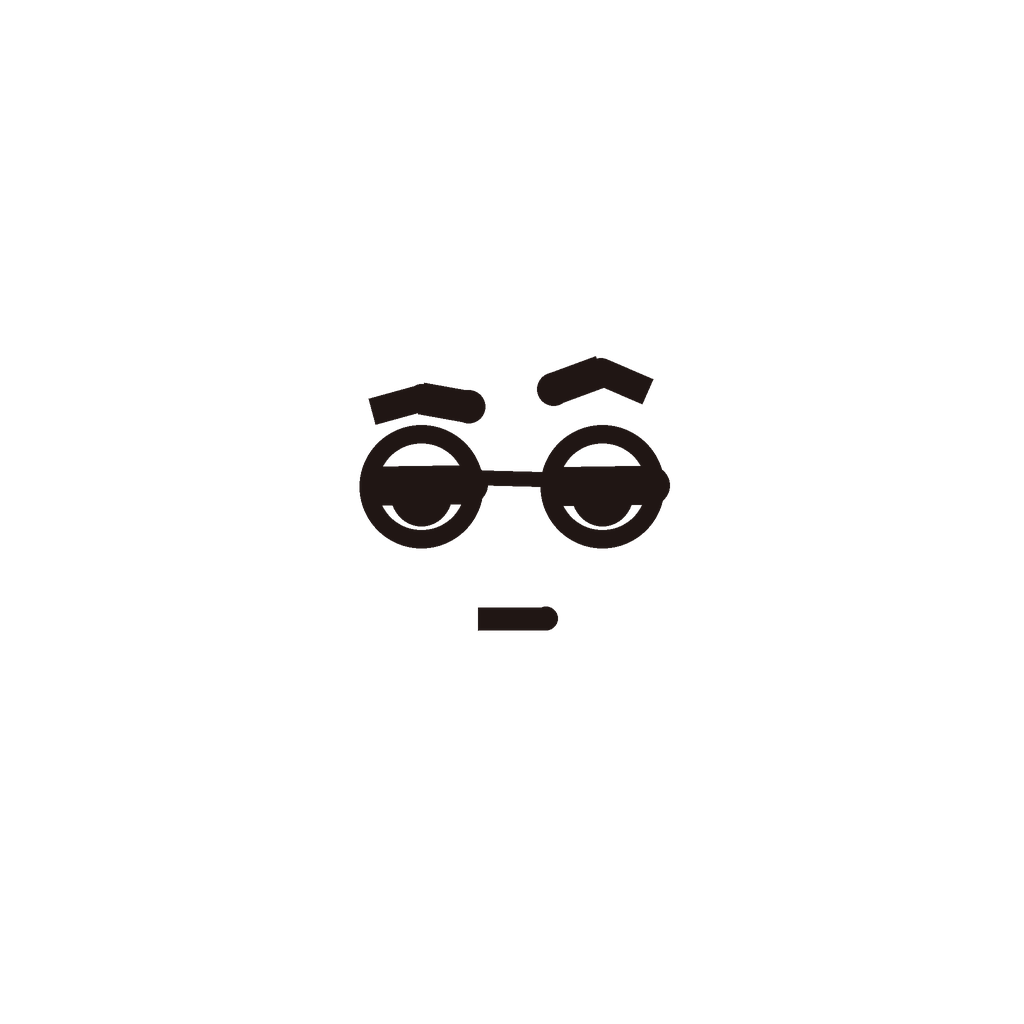
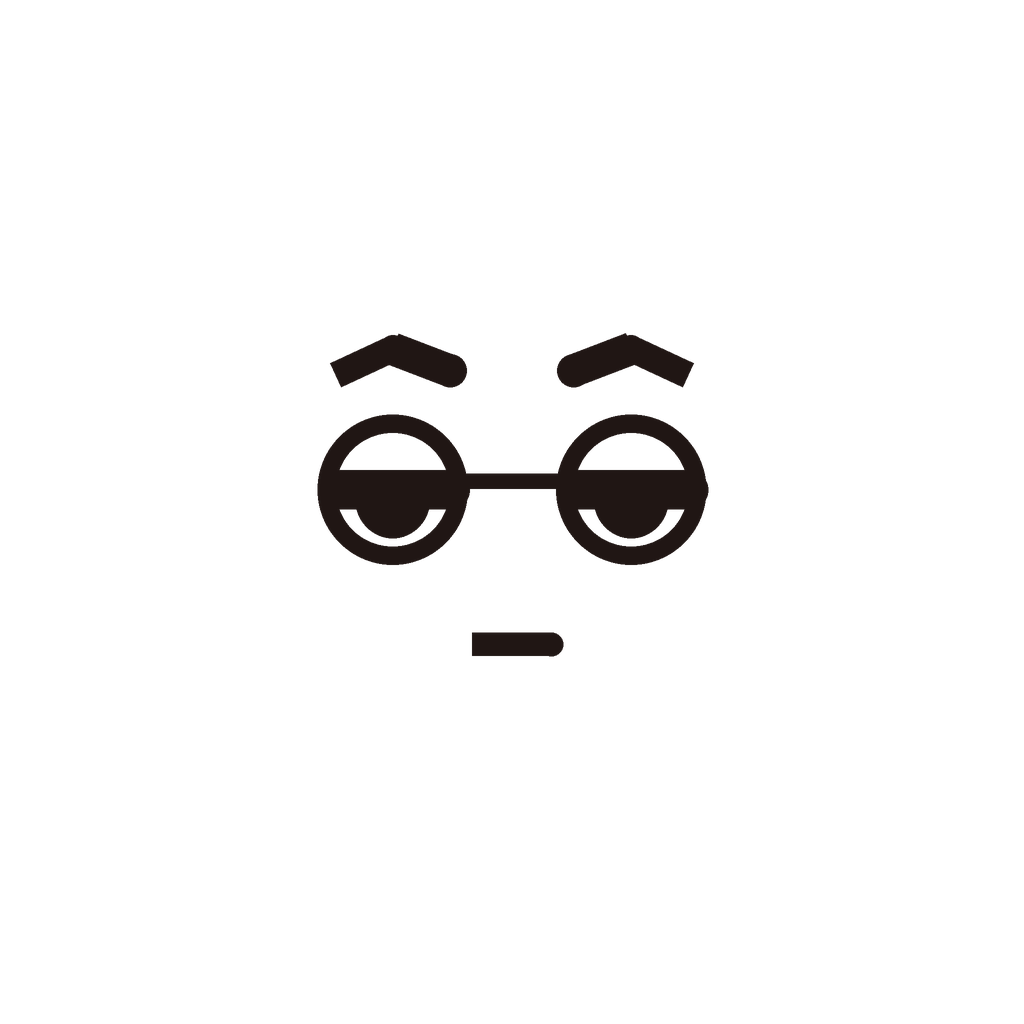
Restore approved characters; background-only update (no set ink, blue/wood palette, day sky)
Claude-Session: https://claude.ai/code/session_01B5sgCVepJEDXiVLGvcjf3z

Changed region(s): [[0.3125, 0.3125, 0.6875, 0.5625], [0.4375, 0.5938, 0.5625, 0.6562]]

diff --git a/production/pipeline/characters.py b/production/pipeline/characters.py
@@ -16,23 +16,6 @@ def striped(name,col,dark,scale,axis='Z',rough=0.6):
     e[0].color=(*dark,1); e[1].position=0.12; e[1].color=(*col,1)
     nt.links.new(tc.outputs['Object'],w.inputs[0]); nt.links.new(w.outputs['Fac'],cr.inputs[0]); nt.links.new(cr.outputs[0],p.inputs['Base Color'])
     return m
-def front_decal(base,path,hw,top,bot):
-    """Copy of material 'base' with a front-projected drawing (pockets, stitches, tie...) over its colour."""
-    m=base.copy(); m.name=base.name+"_dec"; nt=m.node_tree; n=nt.nodes; p=n["Principled BSDF"]
-    src=p.inputs['Base Color'].links[0].from_socket if p.inputs['Base Color'].links else None
-    col=tuple(p.inputs['Base Color'].default_value)
-    tc=n.new('ShaderNodeTexCoord'); sx=n.new('ShaderNodeSeparateXYZ'); nt.links.new(tc.outputs['Object'],sx.inputs[0])
-    u=n.new('ShaderNodeMapRange'); u.inputs[1].default_value=-hw; u.inputs[2].default_value=hw; u.clamp=False; nt.links.new(sx.outputs['X'],u.inputs[0])
-    v=n.new('ShaderNodeMapRange'); v.inputs[1].default_value=bot; v.inputs[2].default_value=top; v.clamp=False; nt.links.new(sx.outputs['Z'],v.inputs[0])
-    cx=n.new('ShaderNodeCombineXYZ'); nt.links.new(u.outputs[0],cx.inputs[0]); nt.links.new(v.outputs[0],cx.inputs[1])
-    tx=n.new('ShaderNodeTexImage'); tx.image=bpy.data.images.load(path,check_existing=True); tx.extension='CLIP'; nt.links.new(cx.outputs[0],tx.inputs[0])
-    fr=n.new('ShaderNodeMath'); fr.operation='LESS_THAN'; fr.inputs[1].default_value=0.0; nt.links.new(sx.outputs['Y'],fr.inputs[0])
-    al=n.new('ShaderNodeMath'); al.operation='MULTIPLY'; nt.links.new(tx.outputs['Alpha'],al.inputs[0]); nt.links.new(fr.outputs[0],al.inputs[1])
-    mx=n.new('ShaderNodeMix'); mx.data_type='RGBA'; nt.links.new(al.outputs[0],mx.inputs['Factor'])
-    if src: nt.links.new(src,mx.inputs['A'])
-    else: mx.inputs['A'].default_value=col
-    nt.links.new(tx.outputs['Color'],mx.inputs['B']); nt.links.new(mx.outputs['Result'],p.inputs['Base Color'])
-    return m
 def ink_ring(o_parent,loc,R,r,rot=(0,0,0)):
     """Thin dark torus = drawn inner line where two parts meet (hat/forehead, hair/forehead)."""
     return torus(loc,R,r,mat("ink",(0.035,0.025,0.02),0.6,0.1),rot=rot)
@@ -61,30 +44,40 @@ class Character:
         _add(o,self.root,self.coll)
         return o
     # ---------- builders ----------
-    def build(self,R=0.25,hip=0.8,torso=0.6,torso_w=0.17,shirt=(0.96,0.96,0.95),legs=(0.035,0.025,0.02),beard=False,decal=None,look=0.0,
+    def build(self,R=0.25,hip=0.8,torso=0.6,torso_w=0.17,shirt=(0.96,0.96,0.95),legs=(0.035,0.025,0.02),beard=False,
               shoes=(0.12,0.08,0.06),hair=None,hat=None,tie=None,coat=None,buttons=0,arms=None,collar=True):
-        self.R=R; self.beard=beard; self.look=look; z_t=hip+torso/2-0.04; decal_objs=[]
+        self.R=R; self.beard=beard; z_t=hip+torso/2-0.04
         body=sph((0,0,z_t),(torso_w,torso_w*0.78,torso/2+0.03),mat(self.name+"_shirt",shirt,0.7,0.25,emit=0.08 if sum(shirt)>2.7 else 0),seg=40)
         self.part(body,0.011)
         if coat:  # long coat flaring to the knees
-            c=cyl((0,0,hip-0.05),torso_w*1.02,0.62,mat(self.name+"_coat",coat,0.8,0.15),verts=40,r2=torso_w*1.45,rot=(math.pi,0,0),bevel=0.0)
-            c.location=(0,0,hip+0.02); self.part(c,0.011); decal_objs=[c]
-            top=sph((0,0,z_t+0.05),(torso_w*1.07,torso_w*0.86,torso/2-0.02),mat(self.name+"_coat",coat,0.8,0.15),seg=40); self.part(top,0.011); decal_objs.append(top)
-            for i in range(0):
+            c=cyl((0,0,hip-0.05),torso_w*1.02,0.62,mat(self.name+"_coat",coat,0.45,0.45),verts=40,r2=torso_w*1.45,rot=(math.pi,0,0),bevel=0.0)
+            c.location=(0,0,hip+0.02); self.part(c,0.011)
+            top=sph((0,0,z_t+0.05),(torso_w*1.07,torso_w*0.86,torso/2-0.02),mat(self.name+"_coat",coat,0.45,0.45),seg=40); self.part(top,0.011)
+            for i in range(buttons):
                 self.part(sph((0.0,-torso_w*0.88,z_t+0.18-i*0.17),(0.018,0.012,0.018),mat("btn",(0.15,0.1,0.06),0.4)))
             if collar:
                 for s in (-1,1):
-                    cl=cyl((s*0.06,-0.07,z_t+torso/2-0.04),0.07,0.02,mat(self.name+"_coat",coat,0.8,0.15),rot=(1.2,0,s*0.6),verts=3); self.part(cl,0.006)
+                    cl=cyl((s*0.06,-0.07,z_t+torso/2-0.04),0.07,0.02,mat(self.name+"_coat",coat,0.45,0.45),rot=(1.2,0,s*0.6),verts=3); self.part(cl,0.006)
         elif collar and not tie:
             for s in (-1,1):
                 cl=cyl((s*0.045,-torso_w*0.62,z_t+torso/2-0.07),0.055,0.015,mat(self.name+"_shirt",shirt,0.7,0.25,emit=0.08 if sum(shirt)>2.7 else 0),rot=(1.35,0,s*0.5),verts=3); self.part(cl,0.006)
-        if decal:
-            targets=[o for o in decal_objs] if decal_objs else [body]
-            m=front_decal(targets[0].data.materials[0],os.path.join(HERE,"assets",decal),hw=torso_w*1.25,top=z_t+torso/2+0.02,bot=hip-(0.55 if coat else 0.02))
-            for o in targets: o.data.materials[0]=m
+        if tie:  # tie painted onto the shirt front (flat, striped, ink outline)
+            m=body.data.materials[0].copy(); m.name=self.name+"_shirt_tie"; nt=m.node_tree; n=nt.nodes; p=n["Principled BSDF"]
+            tc=n.new('ShaderNodeTexCoord'); sx=n.new('ShaderNodeSeparateXYZ'); nt.links.new(tc.outputs['Object'],sx.inputs[0])
+            hw=0.105; top=z_t+torso/2-0.02; bot=z_t-torso/2*0.62
+            u=n.new('ShaderNodeMapRange'); u.inputs[1].default_value=-hw; u.inputs[2].default_value=hw; u.clamp=False; nt.links.new(sx.outputs['X'],u.inputs[0])
+            v=n.new('ShaderNodeMapRange'); v.inputs[1].default_value=bot; v.inputs[2].default_value=top; v.clamp=False; nt.links.new(sx.outputs['Z'],v.inputs[0])
+            cx=n.new('ShaderNodeCombineXYZ'); nt.links.new(u.outputs[0],cx.inputs[0]); nt.links.new(v.outputs[0],cx.inputs[1])
+            tx=n.new('ShaderNodeTexImage'); tx.image=bpy.data.images.load(os.path.join(HERE,"assets","tie.png"),check_existing=True); tx.extension='CLIP'
+            nt.links.new(cx.outputs[0],tx.inputs[0])
+            fr=n.new('ShaderNodeMath'); fr.operation='LESS_THAN'; fr.inputs[1].default_value=0.0; nt.links.new(sx.outputs['Y'],fr.inputs[0])
+            al=n.new('ShaderNodeMath'); al.operation='MULTIPLY'; nt.links.new(tx.outputs['Alpha'],al.inputs[0]); nt.links.new(fr.outputs[0],al.inputs[1])
+            mx=n.new('ShaderNodeMix'); mx.data_type='RGBA'; nt.links.new(al.outputs[0],mx.inputs['Factor']); mx.inputs['A'].default_value=(*shirt,1); nt.links.new(tx.outputs['Color'],mx.inputs['B'])
+            nt.links.new(mx.outputs['Result'],p.inputs['Base Color'])
+            body.data.materials[0]=m
         # head
         hz=z_t+torso/2+R*0.82; self.head_z=hz
-        head=sph((0,0,hz),(R,R*0.93,R*0.97),mat("skin",SKIN,1.0,0.0,emit=0.1),seg=48); self.part(head,0.013)
+        head=sph((0,0,hz),(R,R*0.93,R*0.97),mat("skin",SKIN,0.45,0.45,emit=0.18),seg=48); self.part(head,0.013)
         if hair:
             import bmesh
             o=sph((0,0,hz),(R*1.05,R*0.98,R*1.02),striped(self.name+"_hair",hair,tuple(x*0.45 for x in hair),9,'X',0.5),seg=48)
@@ -118,21 +111,21 @@ class Character:
         me=bpy.data.meshes.new(self.name+"_face"); me.from_pydata([(x*R,y*R,0) for x,y in pts]+[(0,0,0)],[],[[i for i in range(len(pts))]]); me.update()
         uv=me.uv_layers.new()
         for l in me.loops:
-            co=me.vertices[l.vertex_index].co; uv.data[l.index].uv=(co.x/(2.6*R)+0.5-self.look,co.y/(2.6*R)+0.5)
+            co=me.vertices[l.vertex_index].co; uv.data[l.index].uv=(co.x/(2.6*R)+0.5,co.y/(2.6*R)+0.5)
         fp=bpy.data.objects.new(self.name+"_face",me)
         self.faces_coll.objects.link(fp); fp.parent=piv; fp.location=(0,0,R*1.02); fp.visible_shadow=False
-        self.face_mat=image_mat(self.name+"_facemat",f"{FACEDIR}/{self.name}_{self.face_name}.png",emit=0.25,rough=0.9)
+        self.face_mat=image_mat(self.name+"_facemat",f"{FACEDIR}/{self.name}_{self.face_name}.png",emit=0.6,rough=0.9)
         fp.data.materials.append(self.face_mat); self.face_obj=fp
         # legs + shoes
         for s in (-1,1):
-            self.limb(tube([(s*0.065,0.0,hip+0.05),(s*0.07,0.0,0.45),(s*0.075,0.0,0.07)],0.009,mat("limb",legs,0.9,0.0)))
-            self.part(sph((s*0.07,-0.035,0.022),(0.028,0.055,0.022),mat(self.name+"_shoes",shoes,0.9,0.05)),0.0)
+            self.limb(tube([(s*0.065,0.0,hip+0.05),(s*0.07,0.0,0.45),(s*0.075,0.0,0.07)],0.012,mat("limb",legs,0.6)))
+            self.part(sph((s*0.075,-0.04,0.035),(0.045,0.08,0.035),mat(self.name+"_shoes",shoes,0.5,0.3)),0.007)
         self.sh_z=z_t+torso/2-0.16; self.sh_x=torso_w*(1.0 if coat else 0.9)
         for side,pts in zip((-1,1),arms or [None,None]):
             if pts is None: pts=[(0.05,0,-0.02),(0.12,-0.02,-0.25),(0.14,-0.05,-0.5)]
             P=[(side*(self.sh_x+a),b,self.sh_z+c) for a,b,c in pts]
-            self.limb(tube([(side*(self.sh_x-0.04),0,self.sh_z)]+P,0.0085,mat("limb",legs,0.9,0.0)))
-            self.limb(sph(P[-1],(0.02,0.02,0.02),mat("limb",legs,0.9,0.0)))
+            self.limb(tube([(side*(self.sh_x-0.04),0,self.sh_z)]+P,0.011,mat("limb",legs,0.6)))
+            self.limb(sph(P[-1],(0.024,0.024,0.024),mat("limb",legs,0.6)))
         return self
     def set_face(self,face):
         img=bpy.data.images.load(f"{FACEDIR}/{self.name}_{face}.png",check_existing=True)
@@ -150,10 +143,10 @@ POSES={  # per arm (left, right): points relative to the shoulder; x outward, y 
  "hold":   ([(0.03,-0.02,-0.07),(0.06,-0.14,-0.22),(-0.02,-0.26,-0.18)],)*2,
  "thinking":([(0.03,0,-0.06),(0.07,-0.01,-0.24),(0.08,-0.03,-0.42)],[(0.03,-0.03,-0.07),(0.06,-0.14,-0.2),(-0.06,-0.24,0.06)]),
 }
-def keeper(loc,yaw=0,face="smug",arms=None,pose=None,look=0.0):
+def keeper(loc,yaw=0,face="smug",arms=None,pose=None):
     arms=list(POSES[pose]) if pose else arms
-    return Character("keeper",loc,yaw,face=face).build(R=0.3,torso_w=0.16,coat=(0.98,0.74,0.12),buttons=3,hat="beanie",beard=True,decal="coat_details.png",look=look,
+    return Character("keeper",loc,yaw,face=face).build(R=0.3,torso_w=0.16,coat=(0.93,0.68,0.16),buttons=3,hat="beanie",beard=True,
         shirt=(0.93,0.68,0.16),shoes=(0.08,0.06,0.05),arms=arms)
-def engineer(loc,yaw=0,face="happy",arms=None,pose=None,look=0.0):
+def engineer(loc,yaw=0,face="happy",arms=None,pose=None):
     arms=list(POSES[pose]) if pose else arms
-    return Character("engineer",loc,yaw,face=face).build(R=0.29,torso_w=0.15,hair=(0.42,0.25,0.13),tie=None,decal="shirt_details.png",look=look,arms=arms)
+    return Character("engineer",loc,yaw,face=face).build(R=0.29,torso_w=0.15,hair=(0.42,0.25,0.13),tie=(0.24,0.36,0.56),arms=arms)

diff --git a/production/pipeline/faces.py b/production/pipeline/faces.py
@@ -2,19 +2,15 @@
 brush-like tapered strokes. Canvas = 2.6 x head radius, centred on the head. Drawn at 2x, downsampled."""
 from PIL import Image, ImageDraw
 import math, os
-INK=(32,22,20,255); WHITE=(255,255,255,255); MOUTH=(120,36,34,255); TEETH=(250,248,244,255); BEARD=(168,170,182,255)
+INK=(32,22,20,255); WHITE=(255,255,255,255); MOUTH=(120,36,34,255); TEETH=(250,248,244,255); BEARD=(244,242,236,255)
 S=2048; C=S//2; RP=S/2.6
-FS=0.92
-def P(x,y): return (C+x*RP*FS, C-y*RP*FS)
+def P(x,y): return (C+x*RP*1.12, C-y*RP*1.12)
 SC=1.35
 def W(w): return max(2,int(w*RP*1.35))
 
 def stroke(d,pts,w0,w1=None,w_mid=None):
     """Tapered brush stroke along points (head-radius units). Width: w0 at start, w_mid in the middle, w1 at end."""
     w1=w0 if w1 is None else w1; w_mid=max(w0,w1) if w_mid is None else w_mid
-    import random
-    rnd=random.Random(int(sum(abs(a)+abs(b) for a,b in pts)*1000))
-    pts=[(a+rnd.uniform(-0.006,0.006),b+rnd.uniform(-0.006,0.006)) for a,b in pts]   # hand-drawn wobble
     n=len(pts)
     for i in range(n-1):
         t=(i+0.5)/(n-1); w=(w0*(1-2*t)+w_mid*2*t) if t<0.5 else (w_mid*(2-2*t)+w1*(2*t-1))
@@ -25,7 +21,7 @@ def blob(d,pts,fill,outline=True,w=0.055):
     d.polygon([P(*p) for p in pts],fill=fill)
     if outline: stroke(d,pts+[pts[0]],w)
 
-EX,EY=0.25,0.07
+EX,EY=0.27,0.05
 def eye(d,x,kind,s):
     if kind=="open":        # small oval pupil
         d.ellipse([*P(x-0.075,EY+0.1),*P(x+0.075,EY-0.1)],fill=INK)
@@ -44,8 +40,6 @@ def eye(d,x,kind,s):
         stroke(d,[(x-0.12,EY+0.02),(x+0.12,EY-0.01)],0.04,0.04,0.07)
 def brow(d,x,kind,s):
     by=EY+0.22; i=-s   # i: +1 toward the nose
-    if kind=="cocked":   # asymmetric: right brow raised, left flat
-        kind="raised" if s>0 else "calm"
     shapes={
      "calm":   [(x-0.13*s*-1,by-0.01),(x,by+0.02),(x+0.13*s*-1,by)],
      "raised": [(x-0.13*s*-1,by+0.04),(x,by+0.1),(x+0.13*s*-1,by+0.05)],
@@ -76,13 +70,6 @@ def mouth(d,kind):
         for k in (-0.08,0,0.08): stroke(d,[(k,MY+0.04),(k,MY-0.07)],0.012)
         stroke(d,[(-0.16,MY-0.015),(0.16,MY-0.015)],0.012)
 def beard(d):
-    # compact chin beard + moustache (small, like the competitors' facial hair)
-    pts=[(-0.26,-0.33),(-0.12,-0.31),(0.0,-0.33),(0.12,-0.31),(0.26,-0.33),(0.24,-0.42),(0.17,-0.5),(0.1,-0.47),(0.05,-0.56),(0.0,-0.5),(-0.05,-0.56),(-0.1,-0.47),(-0.17,-0.5),(-0.24,-0.42)]
-    blob(d,pts,BEARD,True,0.045)
-    for s in (-1,1):
-        blob(d,[(0.0,-0.2),(s*0.09,-0.15),(s*0.2,-0.17),(s*0.25,-0.24),(s*0.15,-0.27),(s*0.03,-0.25)],BEARD,True,0.035)
-    return
-def _old_beard(d):
     # drawn beard inside the head silhouette, scalloped lower edge, ink outline -> clean inner line
     top=[(-0.56,-0.37),(-0.4,-0.22),(-0.2,-0.2),(-0.08,-0.23),(0.08,-0.23),(0.2,-0.2),(0.4,-0.22),(0.56,-0.37)]
     bot=[]
@@ -106,10 +93,10 @@ def glasses(d):
     stroke(d,[(-0.16,EY+0.02),(0.16,EY+0.02)],0.03)
 
 EXPR={ # eyes, brows, mouth
- "neutral":("open","calm","flat"), "smug":("lidded","cocked","smirk"), "happy":("happy","raised","grin"),
+ "neutral":("open","calm","flat"), "smug":("lidded","calm","smirk"), "happy":("happy","raised","grin"),
  "laugh":("happy","raised","open"), "shock":("wide","raised","o"), "scream":("wide","raised","shout"),
  "angry":("open","angry","grit"), "furious":("squint","angry","shout"), "worried":("open","worried","frown"),
- "skeptical":("lidded","cocked","flat"), "sleepy":("closed","calm","flat"), "evil":("lidded","angry","smirk"),
+ "skeptical":("lidded","raised","flat"), "sleepy":("closed","calm","flat"), "evil":("lidded","angry","smirk"),
  "proud":("closed","raised","smile"), "talk":("open","calm","o"),
 }
 def make(path,expr,extra=()):

diff --git a/production/pipeline/fast_test.py b/production/pipeline/fast_test.py
@@ -32,7 +32,7 @@ for g,AS,do_ink in groups:
     cv2.imwrite(OUT+'_alb_'+g.name+'.jpg',(np.clip(alb,0,1)[...,::-1]**(1/2.2)*255).astype(np.uint8))
     lit=bake.img_np(bake.bake_pass([g],'DIFFUSE',LS,int(os.environ.get("SPP","256")),['DIRECT','INDIRECT']))
     emi=bake.img_np(bake.bake_pass([g],'EMIT',LS,1))
-    ink=bake.ink_mask([g],AS,int(os.environ.get("INKW","3")),min_angle=int(os.environ.get("INKANG","25"))) if do_ink else bake.ink_mask([g],AS,int(os.environ.get("CINKW","3")),min_angle=70)
+    ink=np.zeros(alb.shape[:2],np.float32) if do_ink else bake.ink_mask([g],AS,int(os.environ.get("CINKW","3")),min_angle=70)
     lit=cv2.GaussianBlur(lit,(0,0),0.7)
     if do_ink:
         ao=bake.img_np(bake.bake_pass([g],'AO',LS,32))
@@ -45,6 +45,6 @@ bake.workbench(sc)
 sc.display.shading.use_dof=True if hasattr(sc.display.shading,'use_dof') else None
 bpy.ops.wm.save_as_mainfile(filepath=OUT+".blend")
 print("PREP TOTAL",round(time.time()-T0,1),flush=True)
-for i,dof in enumerate((True,False)):
+for i,dof in enumerate((True,)):
     sc.display.shading.use_dof=dof
     sc.render.filepath=f"{OUT}_f{i}.png"; t=time.time(); bpy.ops.render.render(write_still=True); print("FRAME dof" if dof else "FRAME nodof",round(time.time()-t,2),flush=True)
